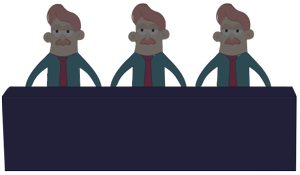
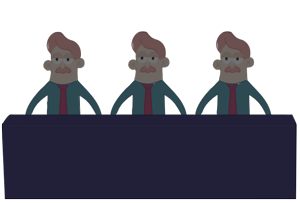
add jury in phaser

Changed region(s): [[0.0, 0.0, 0.99, 0.8571], [0.03, 0.9714, 0.99, 1.0]]

diff --git a/src/states/Swimming/Boot.js b/src/states/Swimming/Boot.js
@@ -25,6 +25,8 @@ export default class extends Phaser.State {
     this.load.image('background', './assets/images/swimming_background.jpg')
     this.load.image('coeur', './assets/images/coeur.png')
     this.load.image('jury', './assets/images/swimming_jury.png')
+    this.load.image('juryHappy', './assets/images/swimming_jury_happy.png')
+    this.load.image('juryUnhappy', './assets/images/swimming_jury_unhappy.png')
     this.load.image('home', './assets/images/home.svg')
     this.load.image('play', './assets/images/play.svg')
     this.load.image('pause', './assets/images/pause.svg')
@@ -38,7 +40,9 @@ export default class extends Phaser.State {
     this.load.image('fail', './assets/images/swimming_fail.png')
     this.load.spritesheet('star', './assets/images/swimming_stars.png', 280, 500)
     // this.load.spritesheet('nageuse', './assets/images/swimming_nageuse3.png', 255, 820)
-    this.load.spritesheet('nageuse', './assets/images/swimming_little_nageuse2.png', 88, 225)
+    this.load.spritesheet('nageuse1', './assets/images/swimming_little_nageuse1.png', 60, 213)
+    this.load.spritesheet('nageuse2', './assets/images/swimming_little_nageuse2.png', 84, 214)
+    this.load.spritesheet('nageuse3', './assets/images/swimming_little_nageuse3.png', 67, 215)
   }
 
   render() {
@@ -56,12 +60,18 @@ export default class extends Phaser.State {
     this.background.scale.setTo(responsive.getRatioFromHeight(this.background.height), responsive.getRatioFromHeight(this.background.height))
     this.scale.fullScreenScaleMode = Phaser.ScaleManager.SHOW_ALL
 
+    // Jury
     this.swipe = new Swipe(this.game)
-    game.add.sprite(game.width - 300, 80, 'jury');
+    this.jury = game.add.sprite(game.width - 300, 70, 'jury');
+    this.juryHappy = game.add.sprite(game.width - 301, 67, 'juryHappy');
+    this.juryUnhappy = game.add.sprite(game.width - 301, 67, 'juryUnhappy');
+    this.juryHappy.visible = false;
+    this.juryUnhappy.visible = false;
+
     // Nageuse
-    this.nageuse = this.game.add.sprite(responsive.getWidthFromPercentage(40), responsive.getHeightFromPercentage(50), 'nageuse')
-    this.nageuse2 = this.game.add.sprite(responsive.getWidthFromPercentage(15), responsive.getHeightFromPercentage(40), 'nageuse')
-    this.nageuse3 = this.game.add.sprite(responsive.getWidthFromPercentage(65), responsive.getHeightFromPercentage(40), 'nageuse')
+    this.nageuse = this.game.add.sprite(responsive.getWidthFromPercentage(45), responsive.getHeightFromPercentage(55), 'nageuse1')
+    this.nageuse2 = this.game.add.sprite(responsive.getWidthFromPercentage(10), responsive.getHeightFromPercentage(40), 'nageuse2')
+    this.nageuse3 = this.game.add.sprite(responsive.getWidthFromPercentage(70), responsive.getHeightFromPercentage(40), 'nageuse3')
     let nageuseArray = [this.nageuse, this.nageuse3, this.nageuse2];
     this.nageuse.animations.add('run')
     this.nageuse2.animations.add('run')
@@ -71,9 +81,9 @@ export default class extends Phaser.State {
     this.nageuse3.play('run', 8, true)
 
     //Stars
-    this.star3 = this.game.add.sprite(responsive.getWidthFromPercentage(20), responsive.getHeightFromPercentage(40), 'star')
-    this.star2 = this.game.add.sprite(responsive.getWidthFromPercentage(65), responsive.getHeightFromPercentage(40), 'star')
-    this.star = this.game.add.sprite(responsive.getWidthFromPercentage(40), responsive.getHeightFromPercentage(50), 'star')
+    this.star = this.game.add.sprite(responsive.getWidthFromPercentage(45), responsive.getHeightFromPercentage(55), 'star')
+    this.star2 = this.game.add.sprite(responsive.getWidthFromPercentage(70), responsive.getHeightFromPercentage(40), 'star')    
+    this.star3 = this.game.add.sprite(responsive.getWidthFromPercentage(15), responsive.getHeightFromPercentage(40), 'star')
     this.star.scale.setTo(responsive.getRatioFromHeight(1760), responsive.getRatioFromHeight(1440))
     this.star2.scale.setTo(responsive.getRatioFromHeight(1760), responsive.getRatioFromHeight(1440))
     this.star3.scale.setTo(responsive.getRatioFromHeight(1760), responsive.getRatioFromHeight(1440))
@@ -96,11 +106,13 @@ export default class extends Phaser.State {
     this.perfect.anchor.setTo(0.5);
 
     let styleRecord = {font: "1.6em myfrida-bold", fill: "#ffffff"};
-    let styleScore = {font: "4.5em myfrida-bold", fill: "#ffffff"};
+    let styleScore = {font: "4.5em myfrida-bold", fill: "#ffffff", align: "center", boundsAlignV: "middle"};
     let textScore = game.add.text(game.world.centerX, 50, '0', styleScore);
     let textRecord = game.add.text(game.world.centerX - 45,  22, 'RECORD :', styleRecord);
     let textFail = game.add.text(game.world.centerX,  game.world.centerY + 200, 'RATE', styleRecord);
     let textPerfect = game.add.text(game.world.centerX,  game.world.centerY + 200, 'PARFAIT', styleRecord);
+    
+    textScore.anchor.setTo(0.5, 0);
     textFail.anchor.setTo(0.5);
     textPerfect.anchor.setTo(0.5);
     textFail.visible = false;
@@ -217,9 +229,13 @@ export default class extends Phaser.State {
 
     function fail(){
       this.fail.visible = true;
+      this.juryUnhappy.visible = true;
+      this.jury.visible = false;
       textFail.visible = true;
       setTimeout(()=>{
         this.fail.visible = false;
+        this.jury.visible = true;
+        this.juryUnhappy.visible = false;
         textFail.visible = false;
       }, 1000)
       heart[this.life-1].visible = false;
@@ -232,16 +248,19 @@ export default class extends Phaser.State {
 
     function perfect(){
       this.perfect.visible = true;
+      this.juryHappy.visible = true;
+      this.jury.visible = false;
       textPerfect.visible = true;
       setTimeout(()=>{
         this.perfect.visible = false;
+        this.jury.visible = true;
+        this.juryHappy.visible = false;
         textPerfect.visible = false;
       }, 1000)
       this.score += 20;
       textScore.text = this.score;
 
       for(var i = 0; i < this.life; i++ ){
-        console.log(i)
         starArray[i].visible = true;
         starArray[i].play('run', 8)
       }
